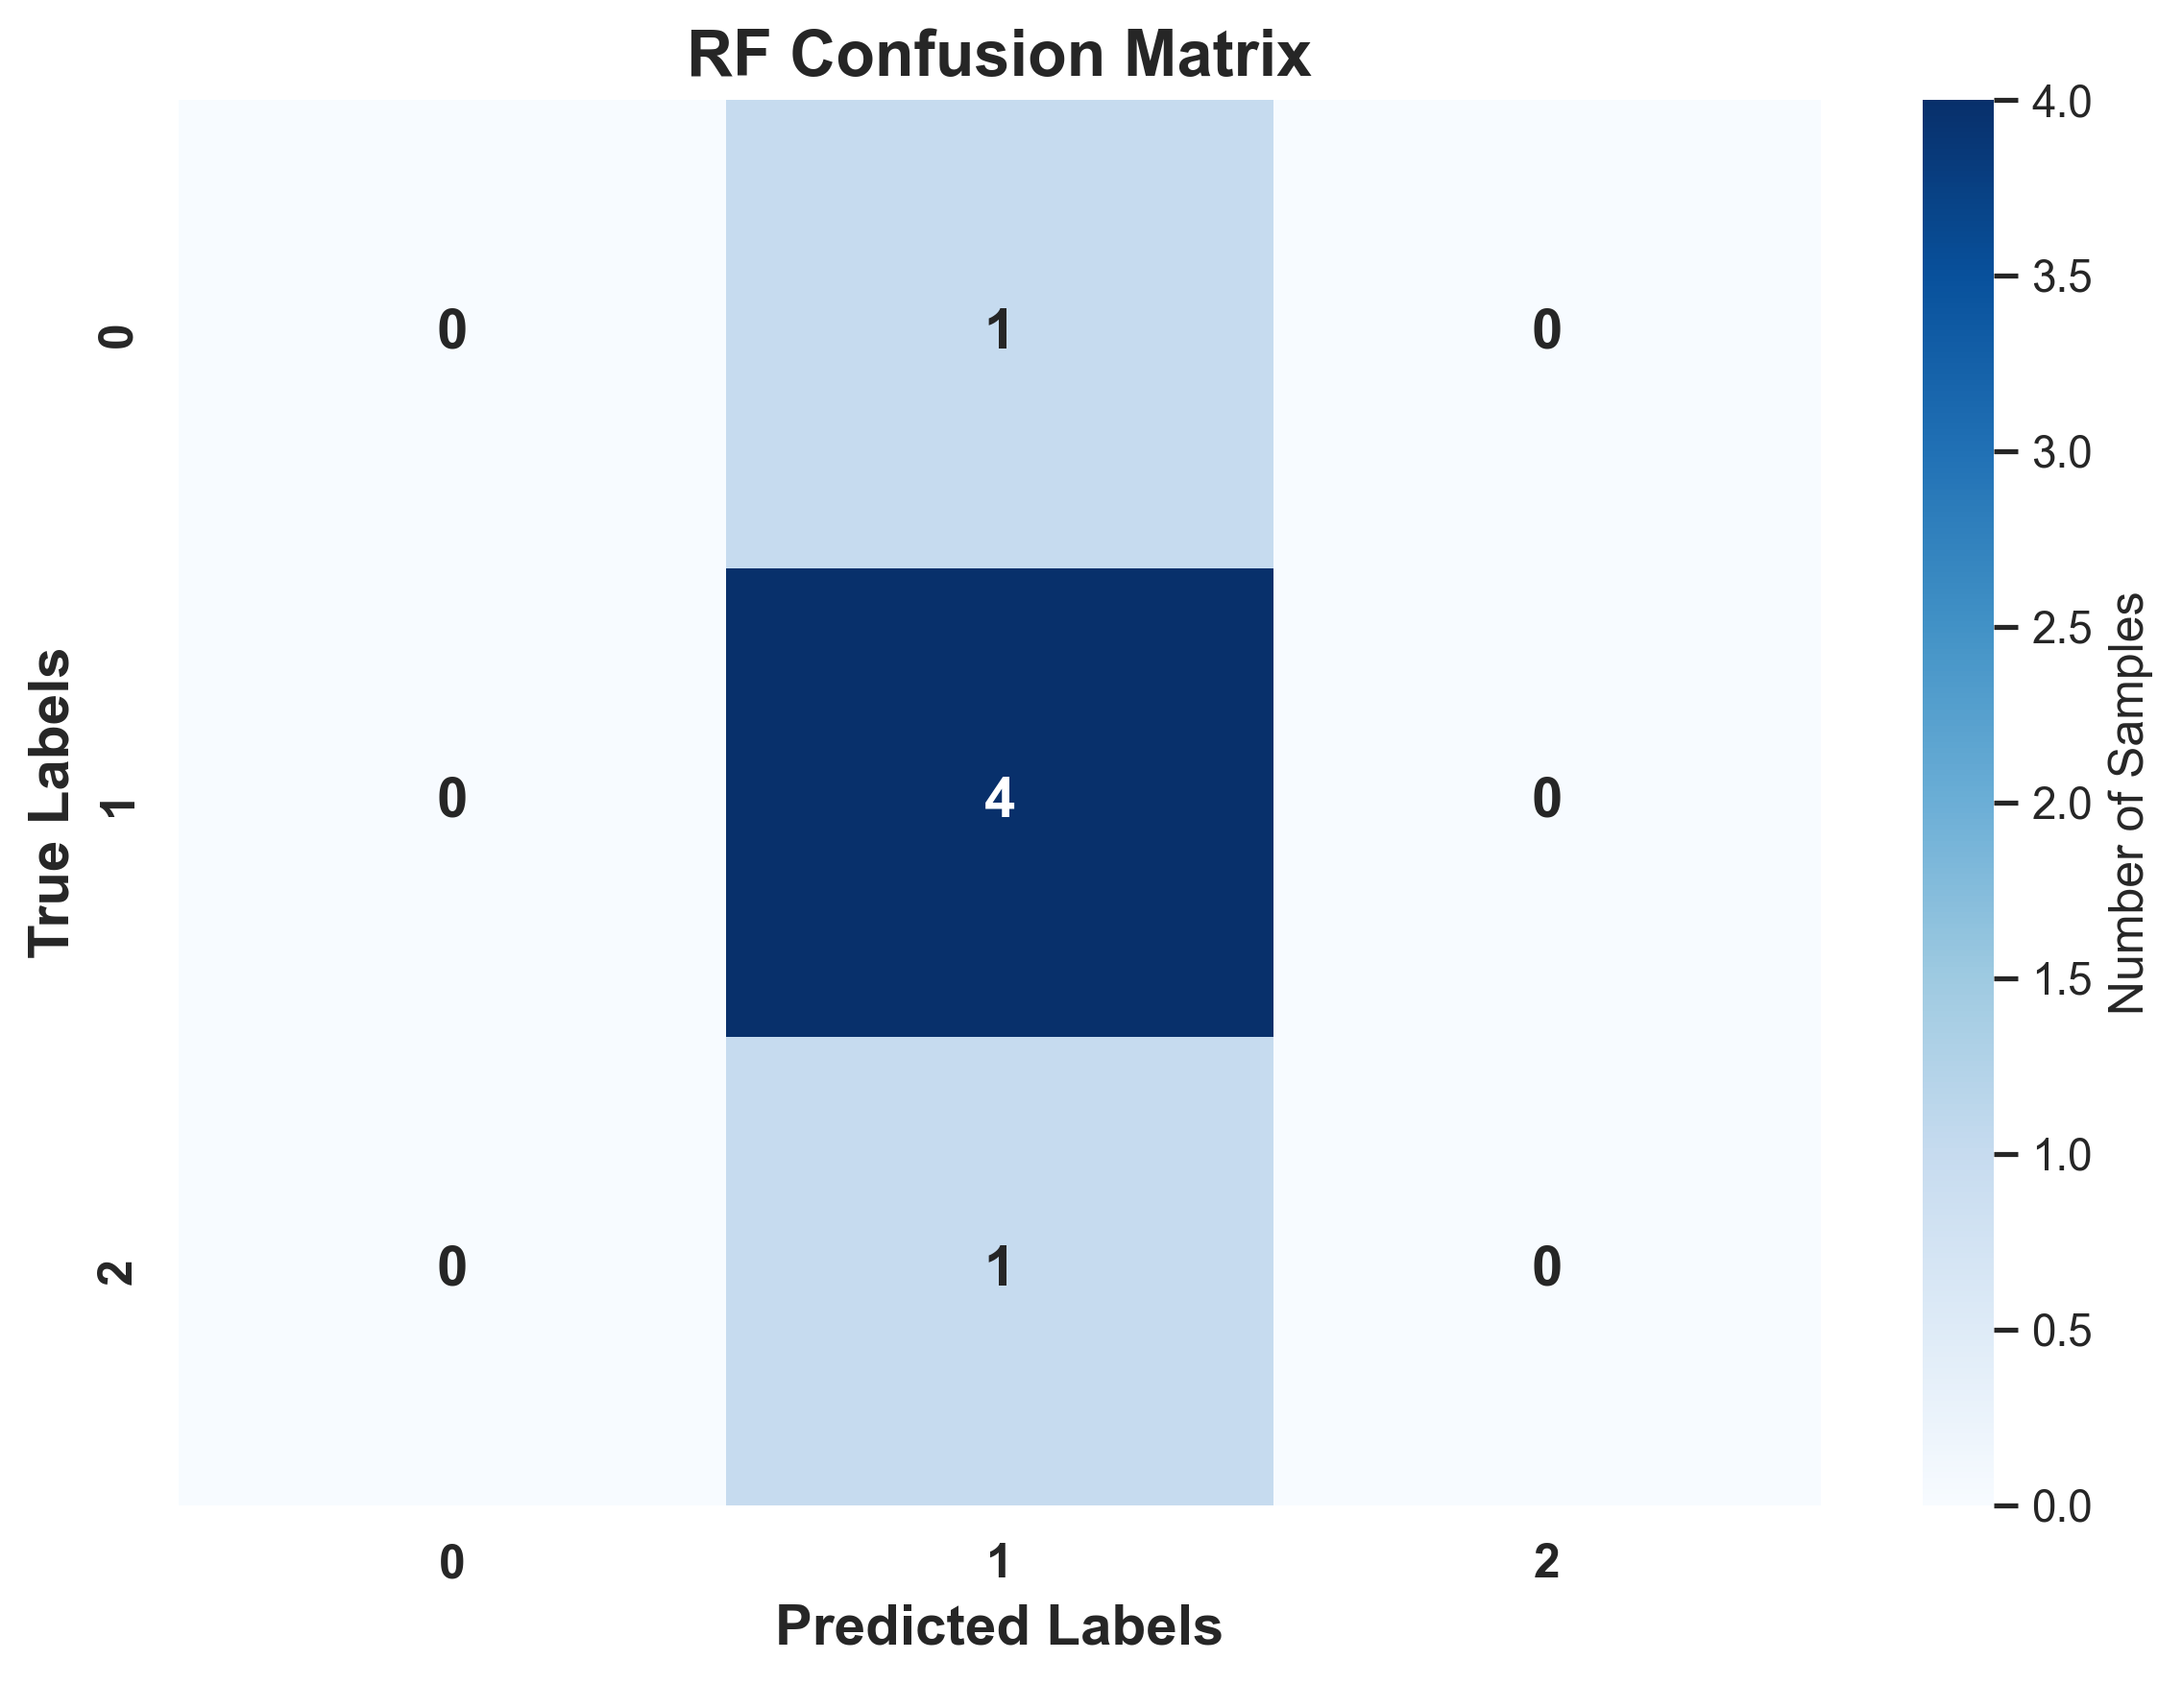
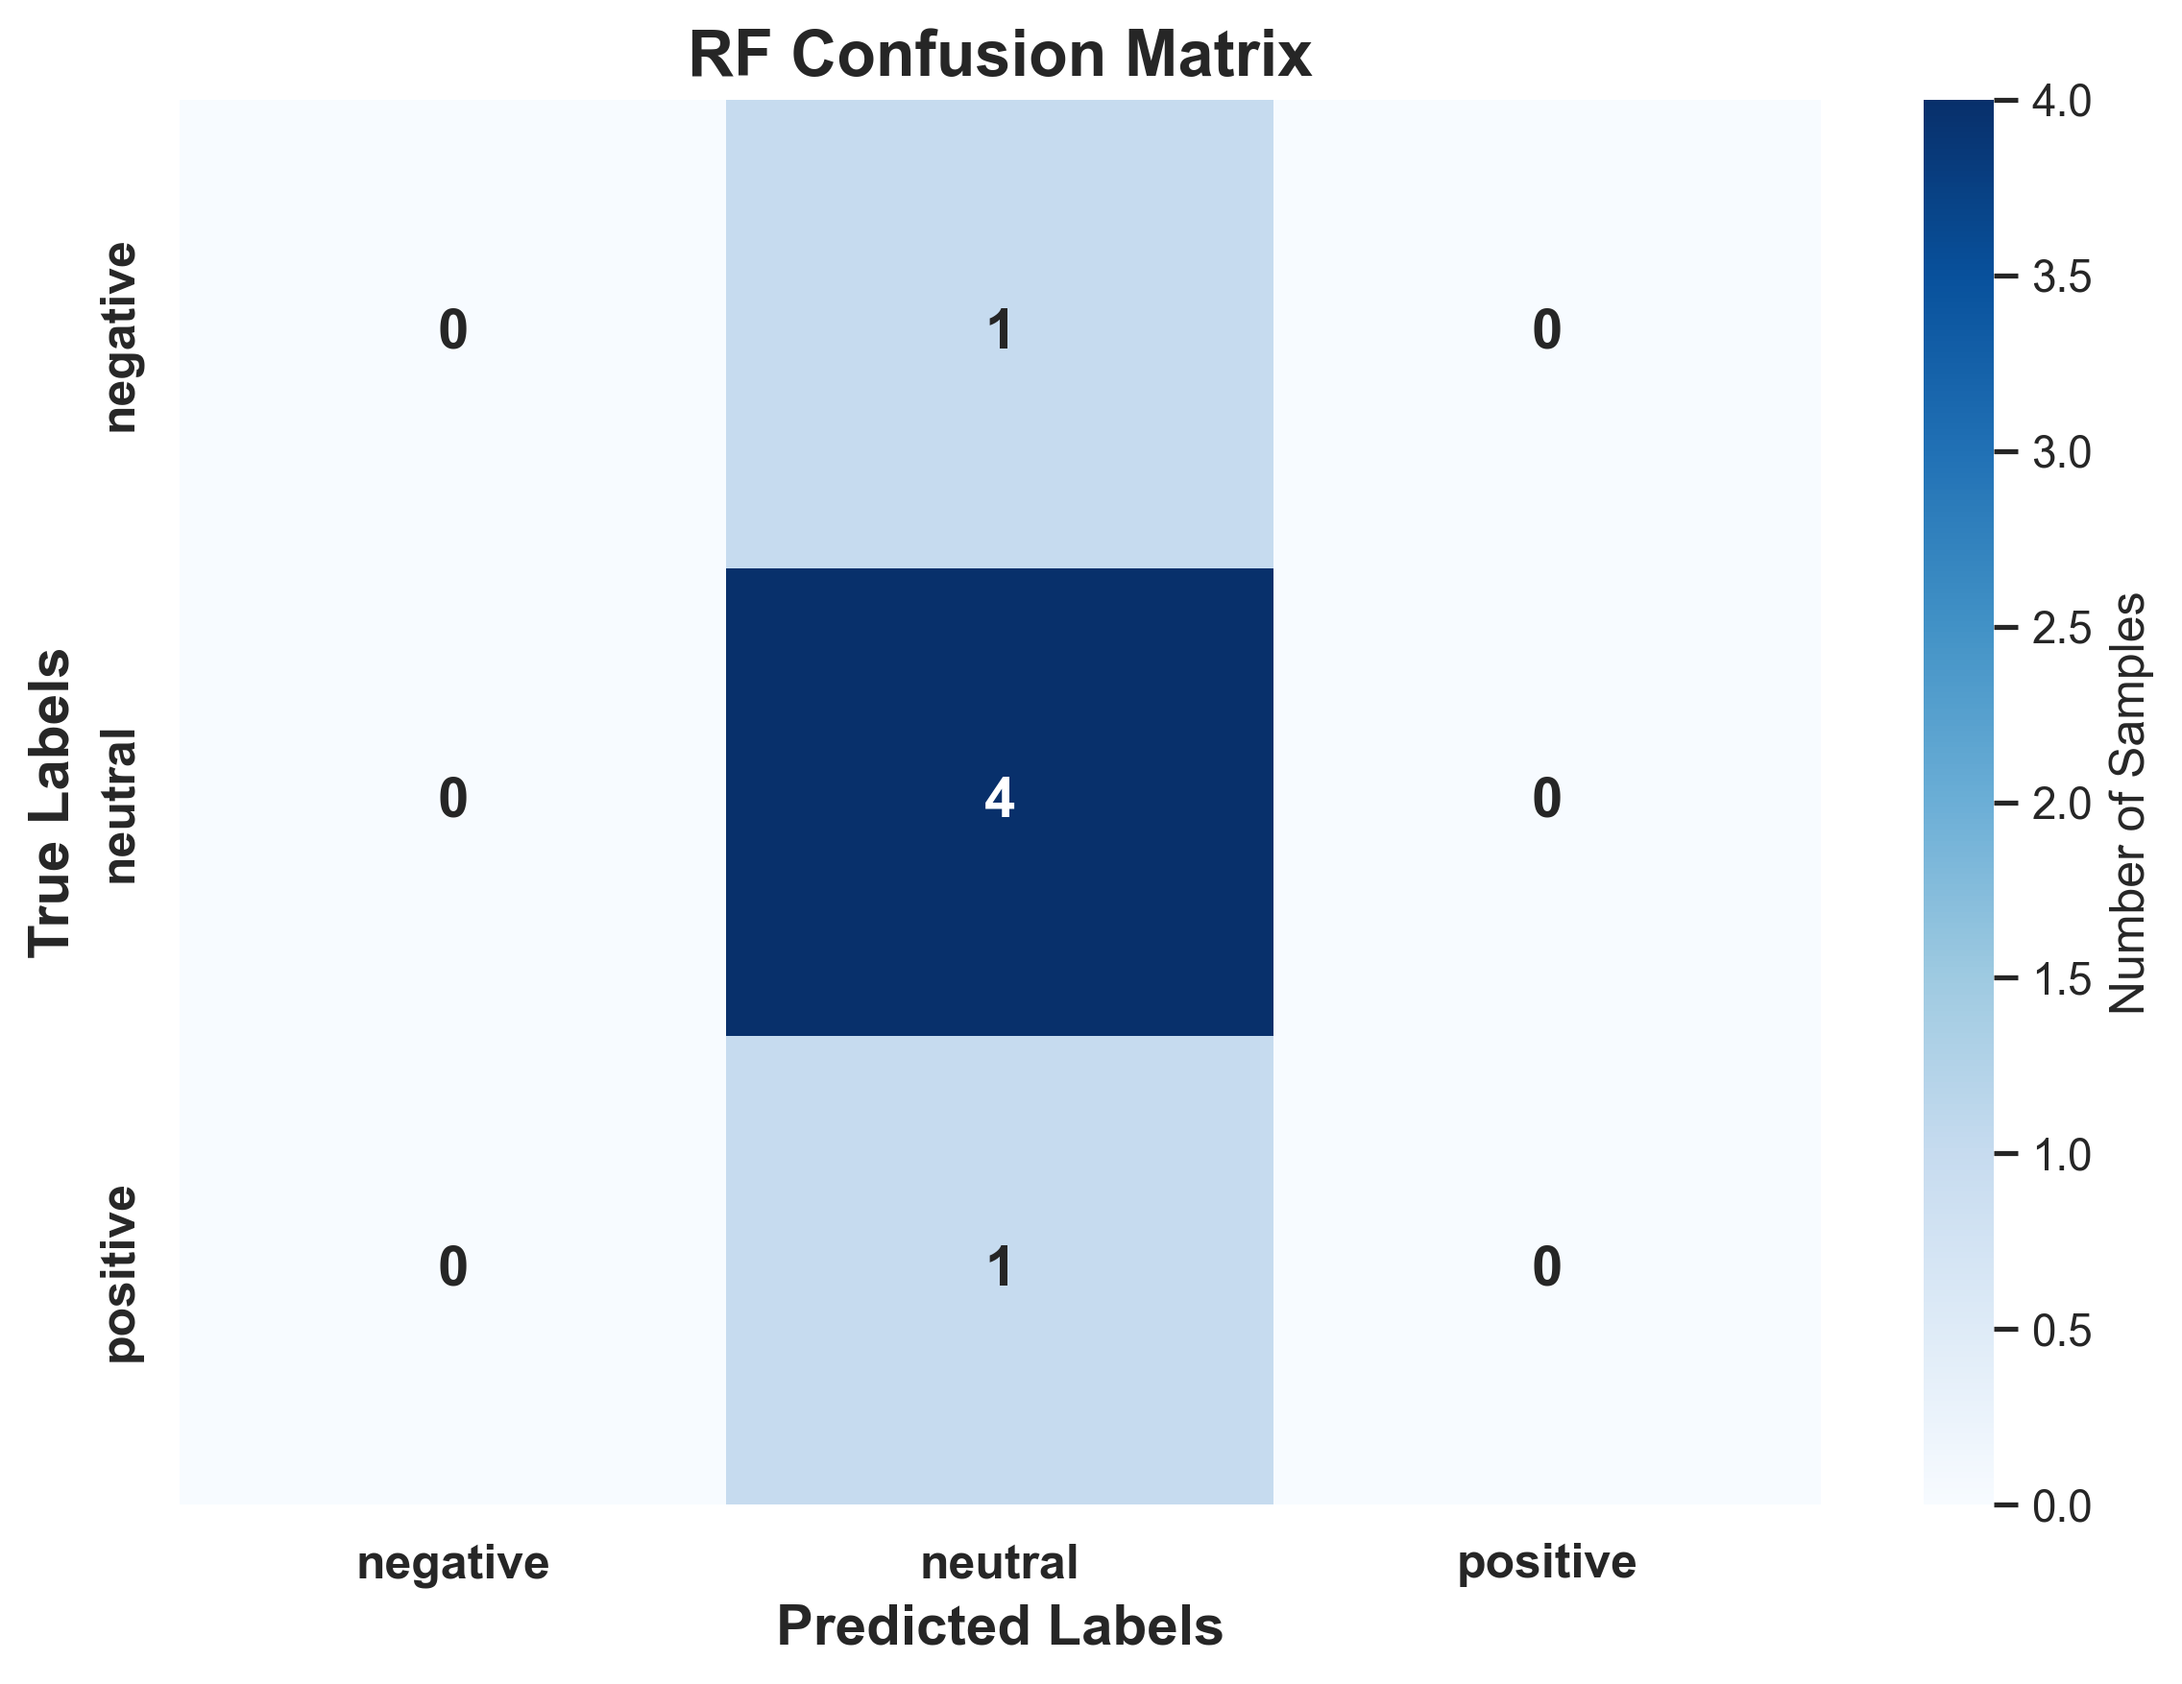
update

diff --git a/machine_learning/多种模型对比.py b/machine_learning/多种模型对比.py
@@ -327,10 +327,19 @@ def plot_accuracy_comparison(all_results):
 
 # 可视化混淆矩阵
 def plot_confusion_matrix(y_true, y_pred, model_name, labels=None):
-    # 如果没有传入 labels，则自动从y_true获取类别标签
+    # 定义数字标签到情绪标签的映射
+    label_mapping = {0: 'negative', 1: 'neutral', 2: 'positive'}
+    
+    # 将数字标签转换为情绪标签
+    y_true_labels = [label_mapping[label] for label in y_true]
+    y_pred_labels = [label_mapping[label] for label in y_pred]
+    
+   
     if labels is None:
-        labels = np.unique(y_true)  # 获取类别标签
-    cm = confusion_matrix(y_true, y_pred, labels=labels)
+        labels = ['negative', 'neutral', 'positive']  # 默认标签
+    
+    # 计算混淆矩阵
+    cm = confusion_matrix(y_true_labels, y_pred_labels, labels=labels)
 
     # 使用seaborn样式
     sns.set(style="whitegrid")
@@ -346,7 +355,8 @@ def plot_confusion_matrix(y_true, y_pred, model_name, labels=None):
     plt.xticks(fontsize=12, weight='bold')
     plt.yticks(fontsize=12, weight='bold')
     plt.tight_layout()
-     # 创建results文件夹（如果不存在）
+
+    # 创建results文件夹（如果不存在）
     if not os.path.exists('results'):
         os.makedirs('results')
 
@@ -354,7 +364,6 @@ def plot_confusion_matrix(y_true, y_pred, model_name, labels=None):
     confusion_matrix_file_path = os.path.join('results', f'{model_name.lower()}_confusion_matrix.png')
     plt.savefig(confusion_matrix_file_path, dpi=300, bbox_inches='tight')
     plt.close()
-
 
 def plot_roc_curve(y_true, y_pred, model_name, n_classes):
     # 对多分类标签进行二进制化
